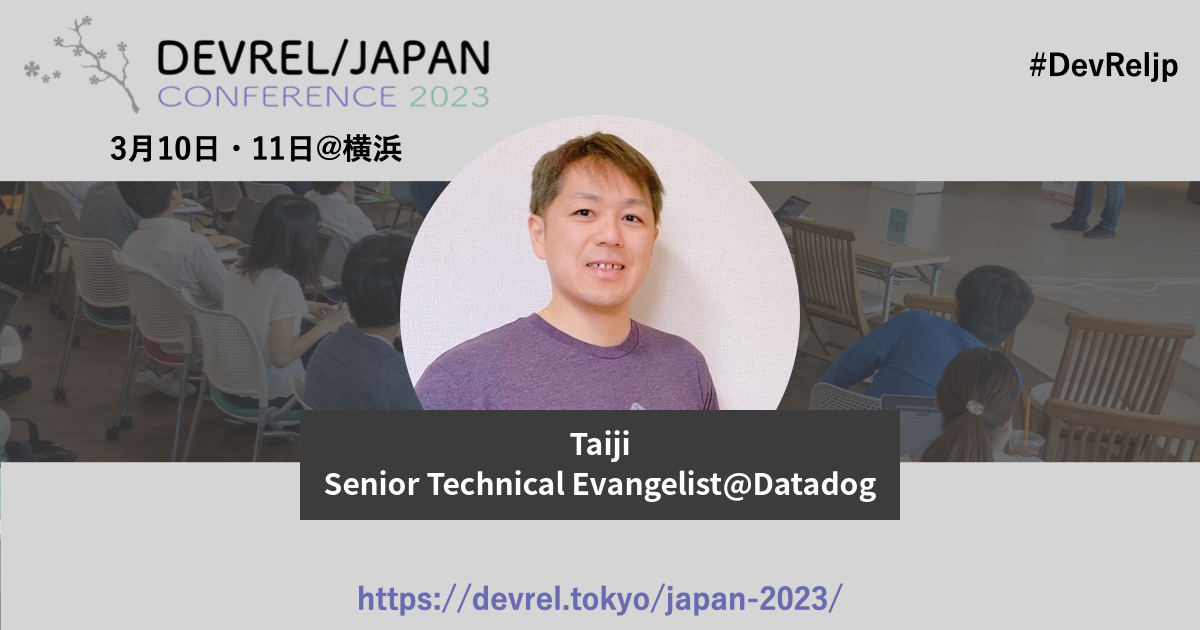
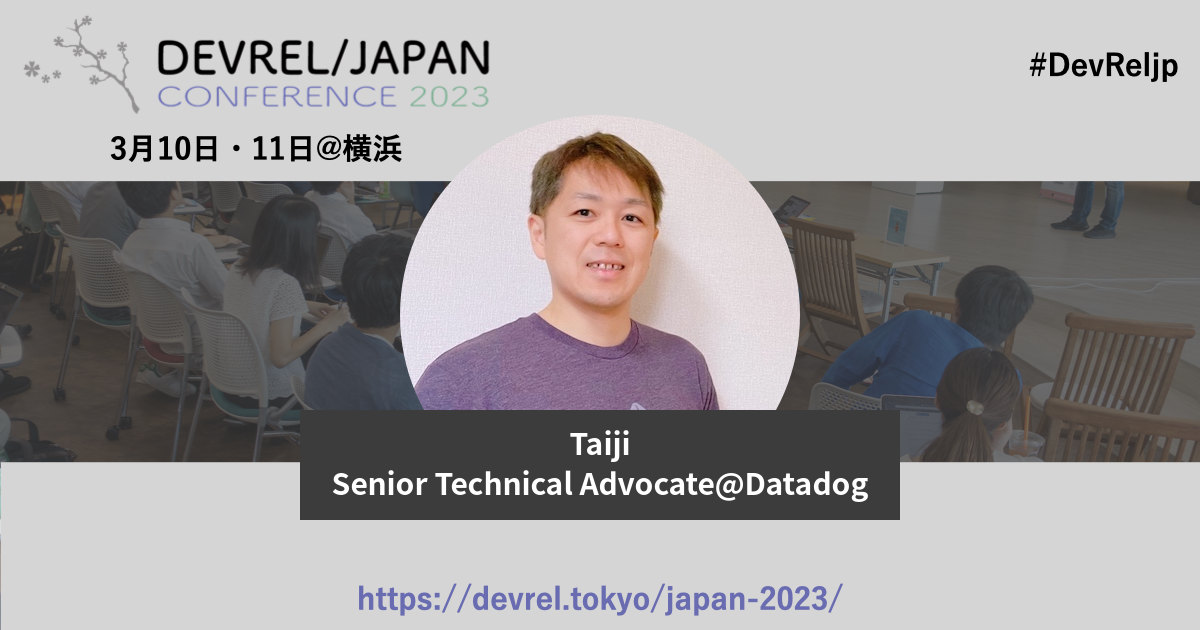
auto update

Changed region(s): [[0.2467, 0.7238, 0.74, 0.8143]]

diff --git a/organizers/taiji.md b/organizers/taiji.md
@@ -6,7 +6,7 @@ ogp: /japan-2023/image/ogp/taiji.jpg
 type: organizer
 id: taiji
 ---
-DatadogのSenior Technical Evangelist
+DatadogのSenior Technical Advocate
 
 元美容師で元音楽家。ソフトウェアエンジニアへ転身後、受託開発やパッケージ開発を経て有限会社アキュレートシステムを起業。その後、技術者へリーチしたマーケティング、DevRel（Developer Relations）の道へシフトし、MKI（三井情報）では初のTechnical Evangelistとなる。その経験を活かしIBMではDeveloper Advocate Tokyo Teamの立ち上げをリード。OutSystemsではLead Developer Community Advocateとして活躍。筑波大学情報学群にて非常勤講師も務める。
 
